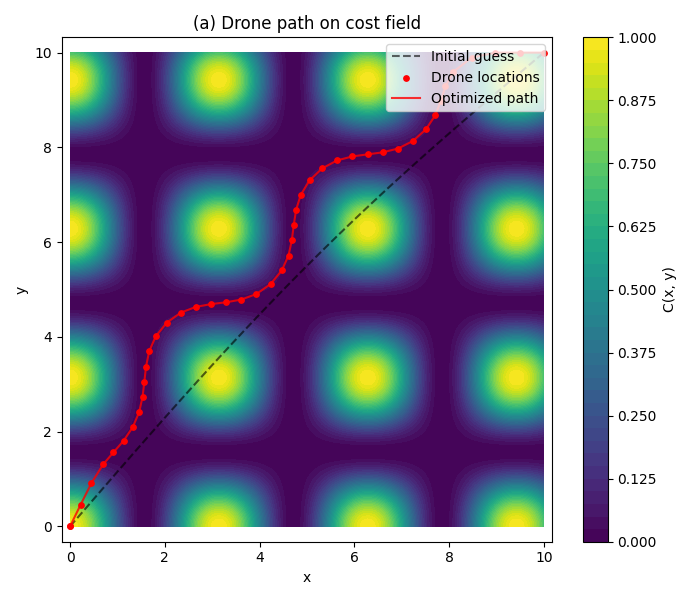
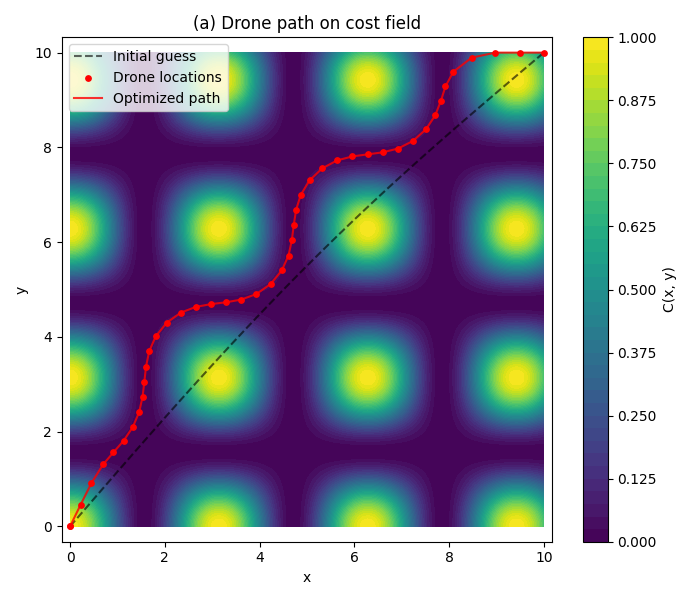
moved legend for plot clarity

Changed region(s): [[0.54, 0.06, 0.78, 0.21], [0.09, 0.06, 0.33, 0.21]]

diff --git a/Homework 5/Assignment 5.py b/Homework 5/Assignment 5.py
@@ -208,7 +208,7 @@ def main():
     plt.ylabel("y")
     plt.axis("equal")
     plt.title("(a) Drone path on cost field")
-    plt.legend(loc='upper right')
+    plt.legend(loc='upper left')
     plt.tight_layout()
     plt.show()
 
